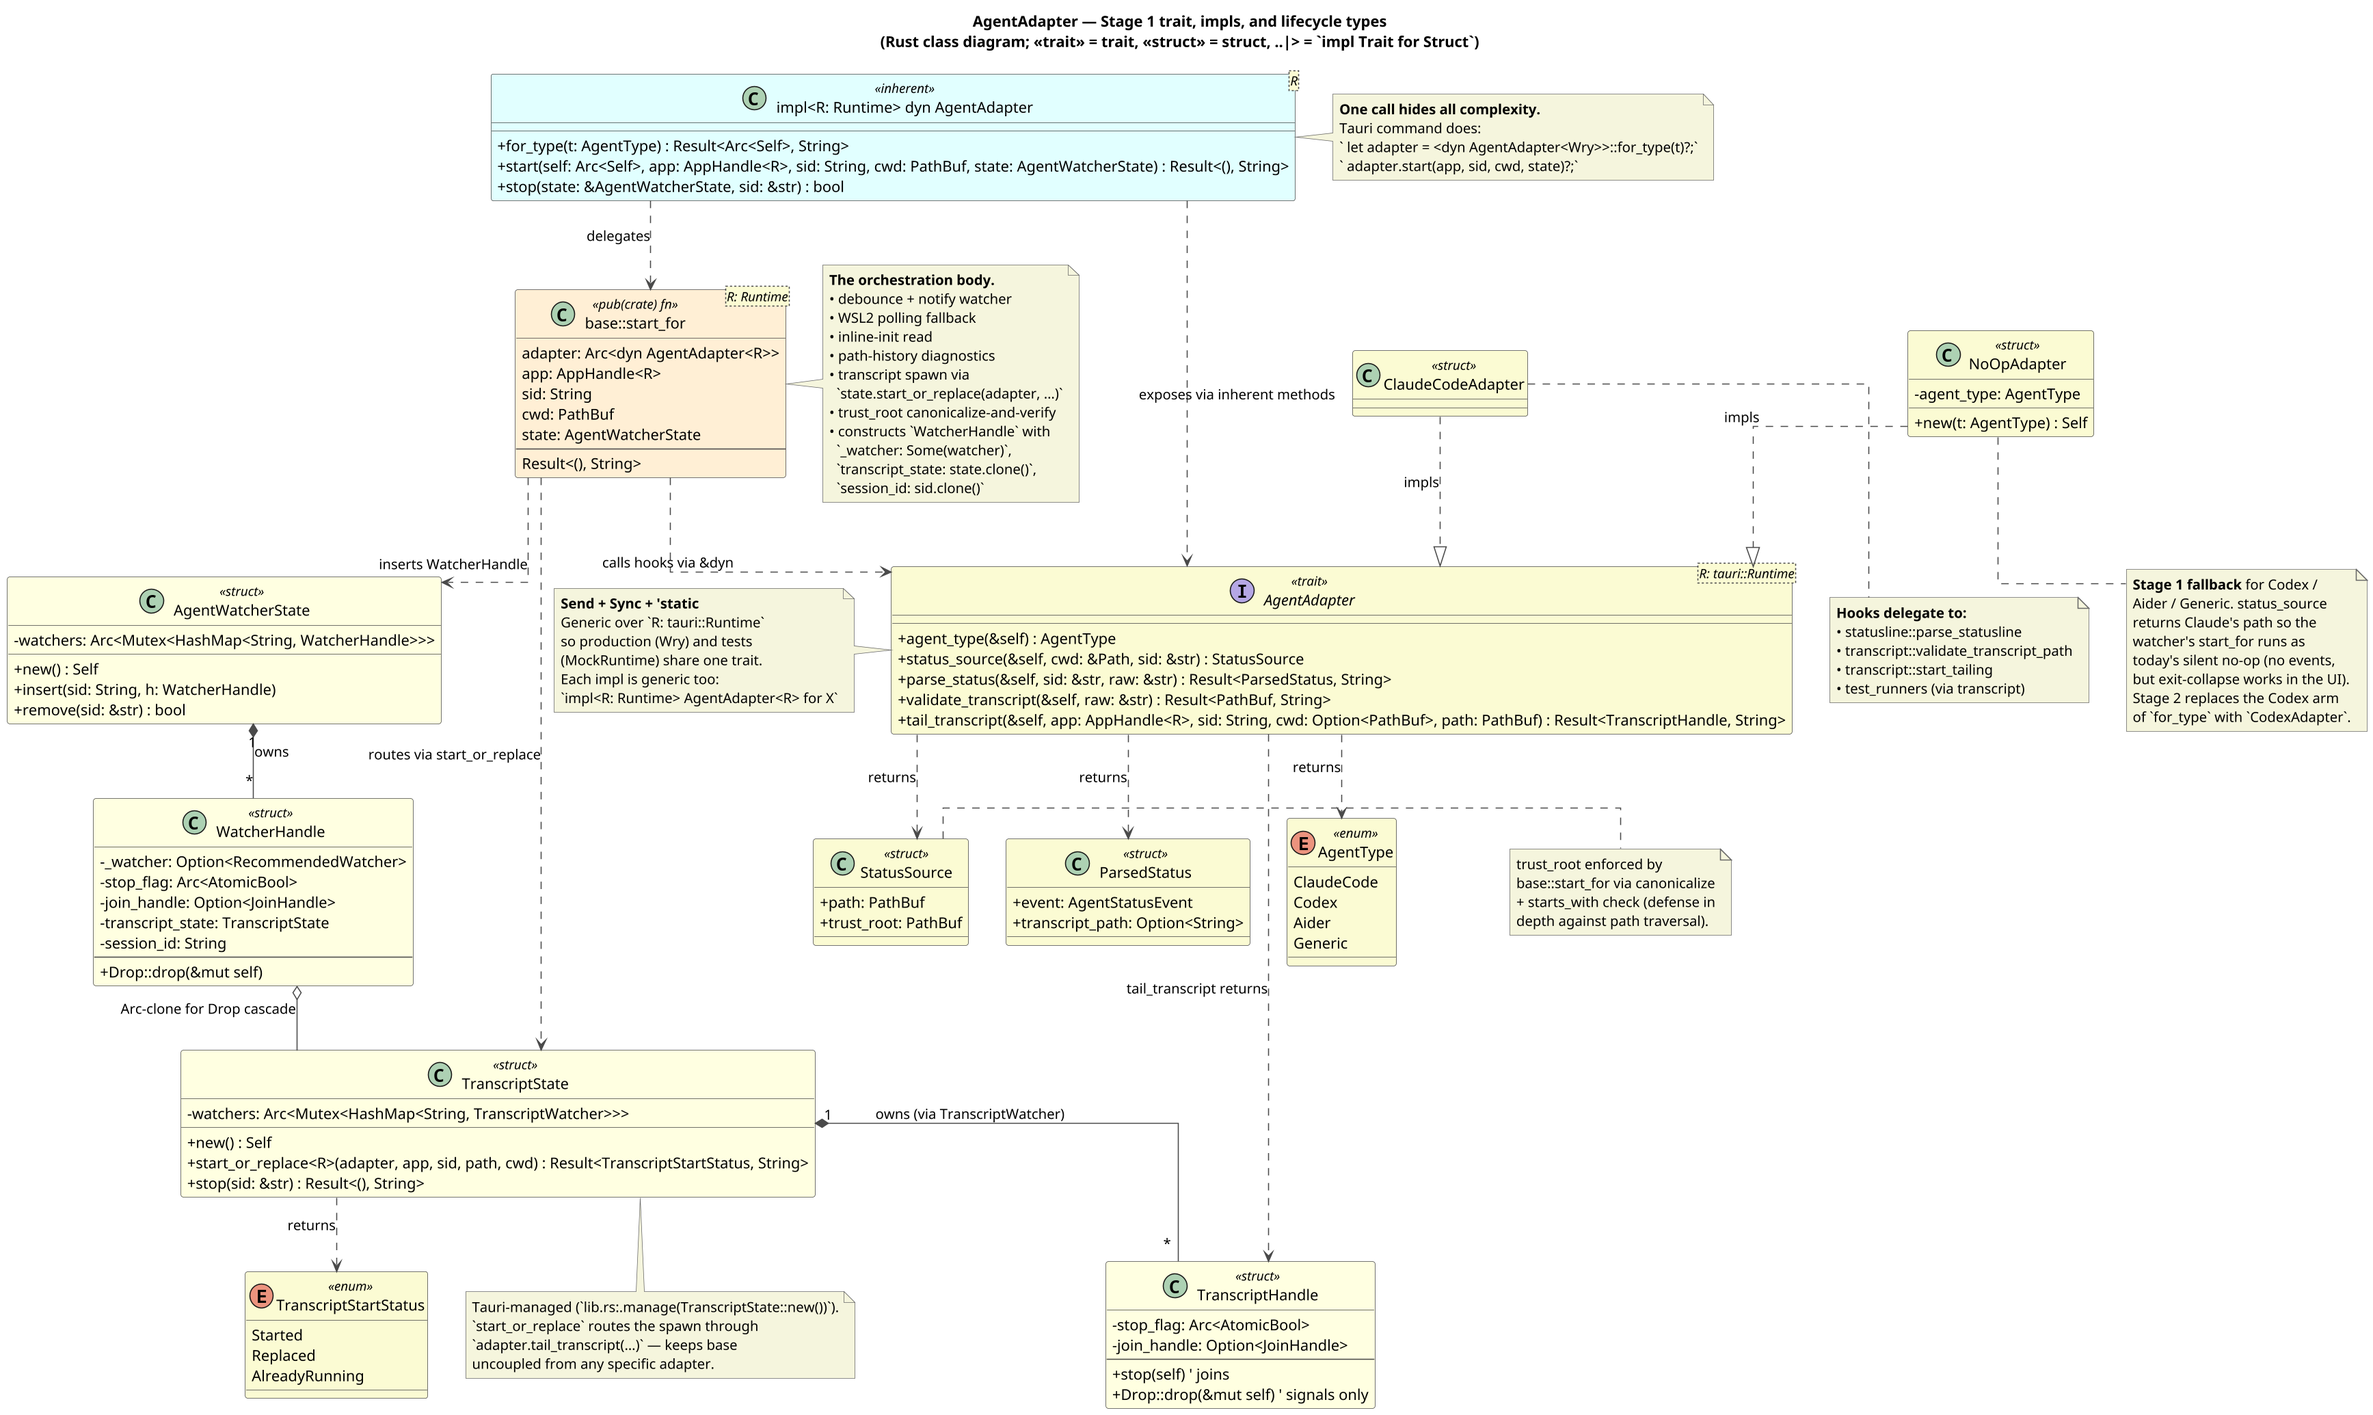
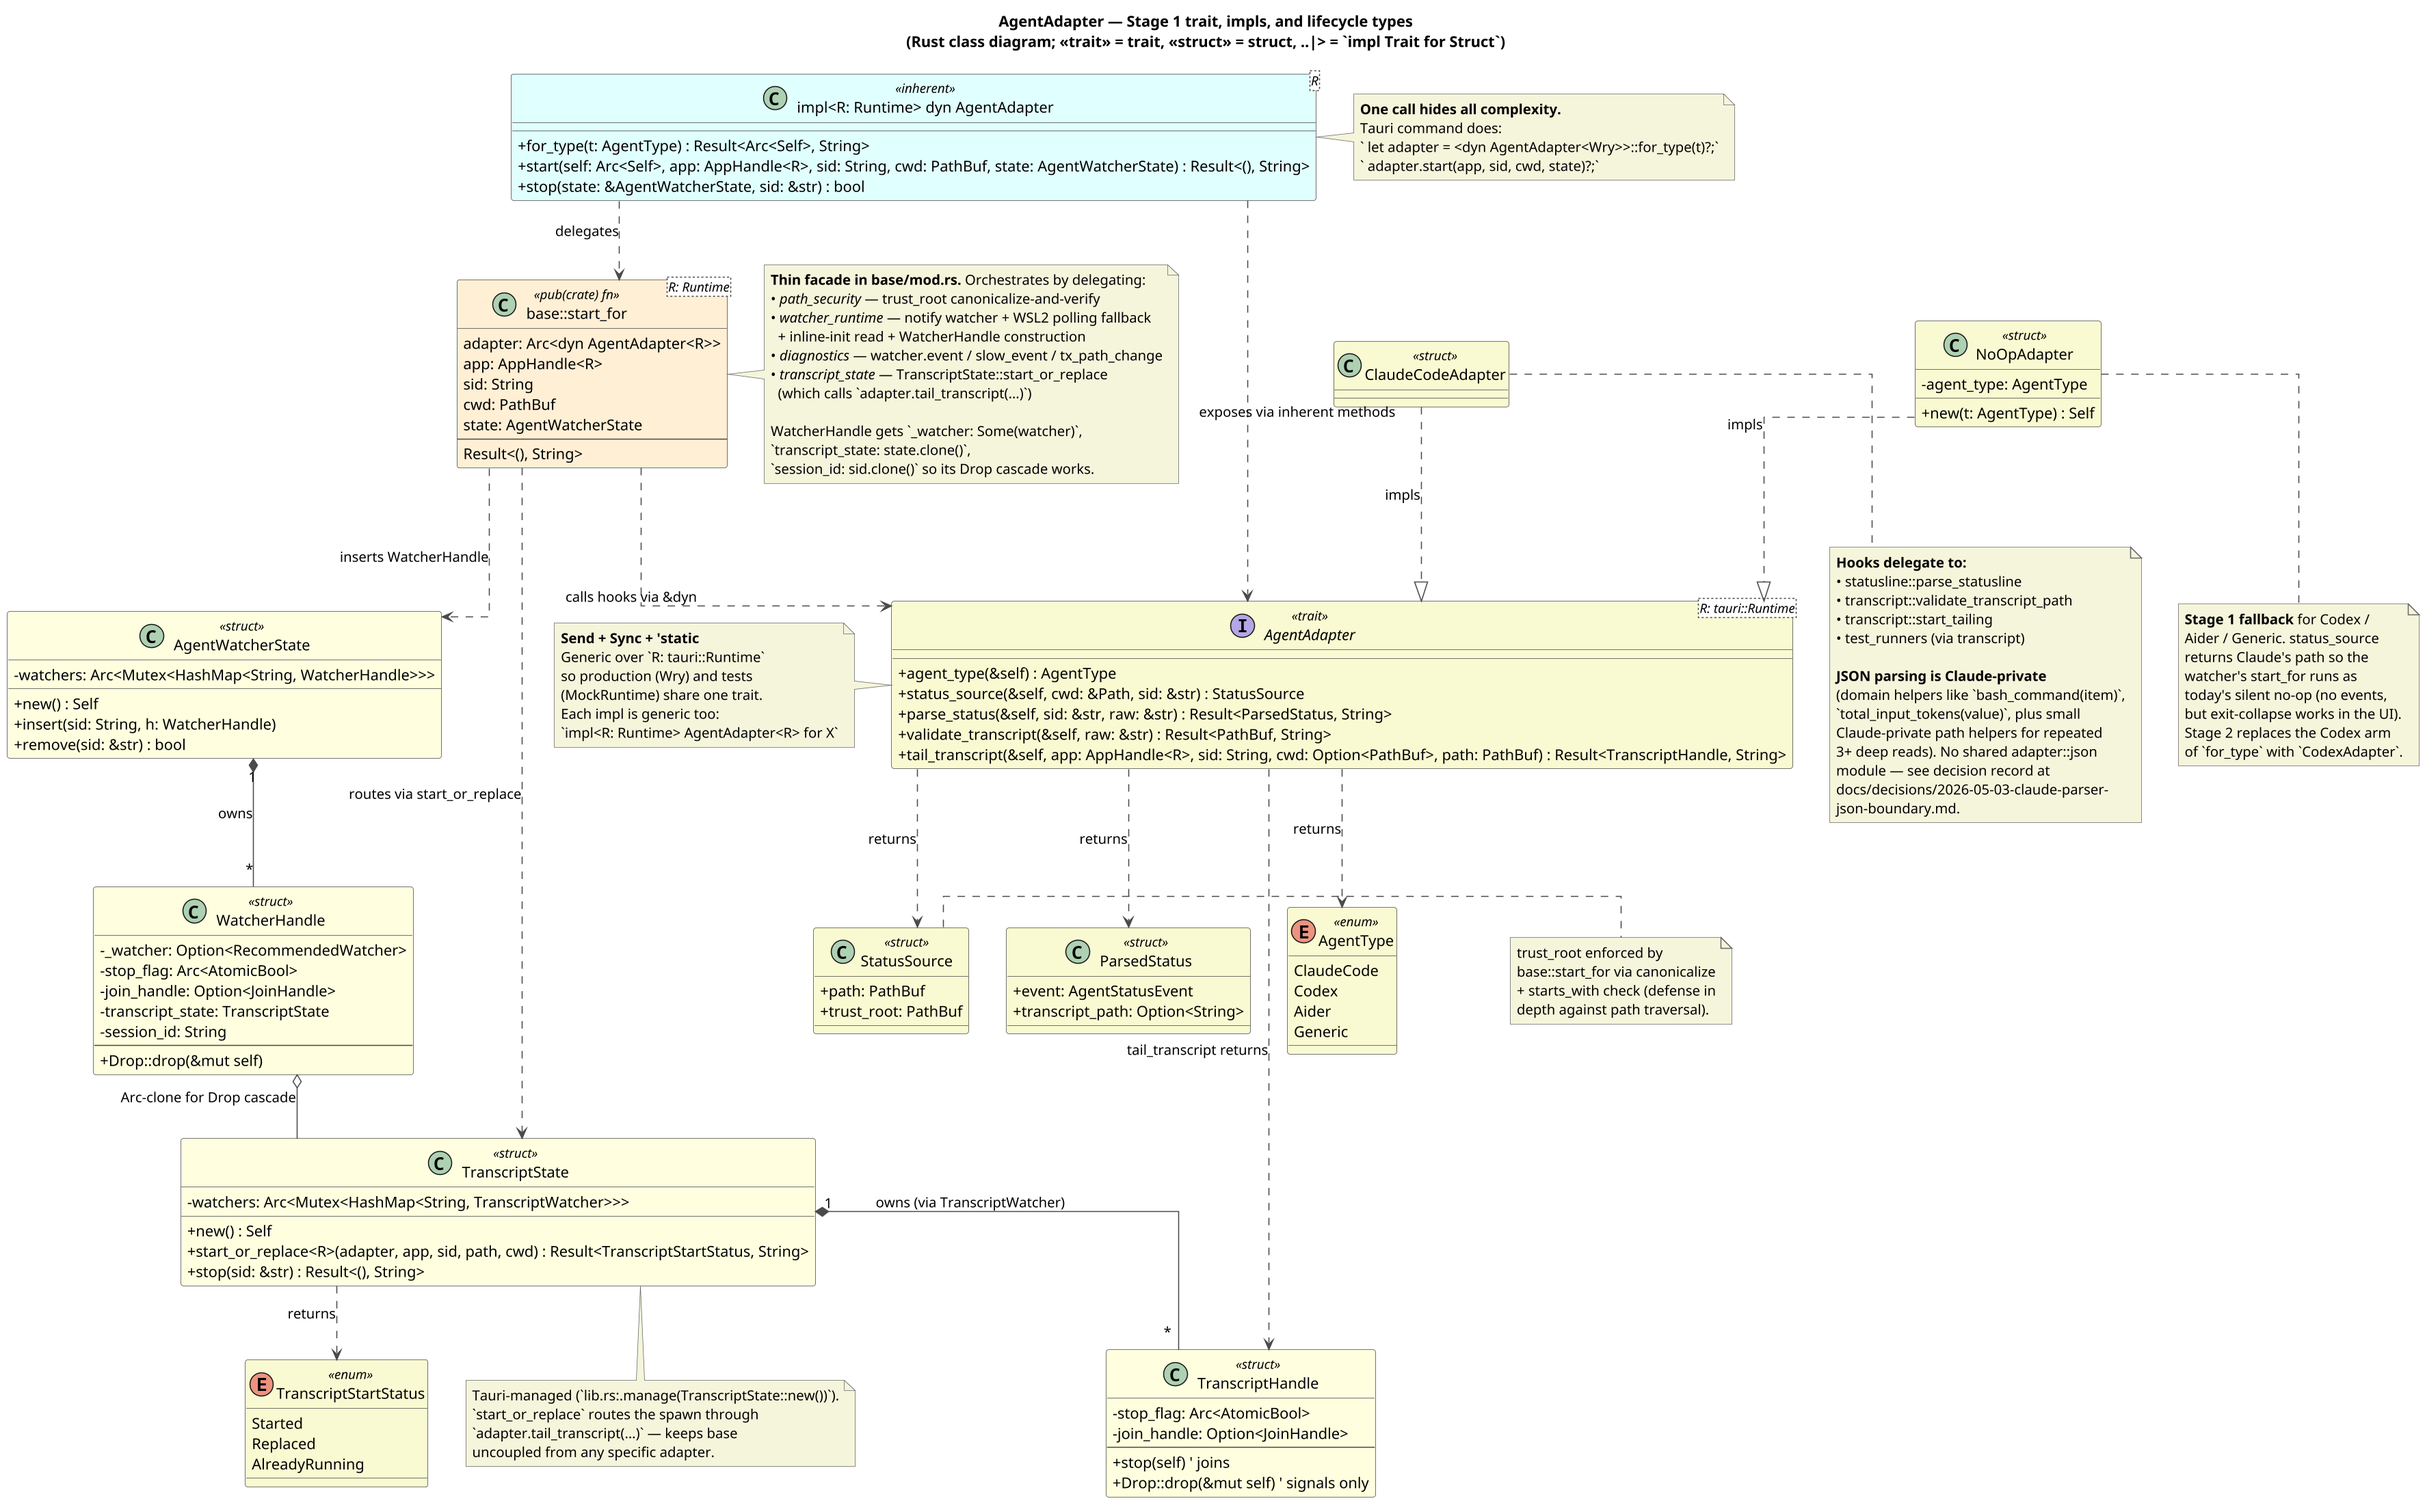
docs(agent): refresh README + UML for base/ split and JSON boundary
Two structural changes landed after the Stage 1 commit but were
only partially reflected in the agent module's local docs:

1. Commit 5ae842e split adapter/base.rs into base/ submodules
   (mod, diagnostics, path_security, transcript_state,
   watcher_runtime). Codex updated the README's module tree and
   orchestrator section; this commit updates the UML to match
   (orchestration note now describes the facade-and-delegate
   shape, lifecycle-types section header points at base/ rather
   than base.rs).

2. Commit 6f1074b removed adapter::json after the parser-JSON-
   boundary decision (docs/decisions/2026-05-03-claude-parser-
   json-boundary.md). Codex dropped the json module from the
   spec/plan; this commit:
   - Adds a JSON-boundary note to the ClaudeCodeAdapter class
     in the UML, pointing at the decision record.
   - Grounds the README's "Claude parser JSON boundary" section
     with concrete helper signatures (bash_command,
     total_input_tokens, current_usage) and a pointer to the
     Claude-private path helpers in statusline.rs:368-378.
   - Adds the decision record to the README's See-also list.

PNG and SVG re-rendered from the updated PlantUML source.

diff --git a/src-tauri/src/agent/README.md b/src-tauri/src/agent/README.md
@@ -341,20 +341,34 @@ Tauri-managed via `lib.rs`'s `.manage(TranscriptState::new())`. **Visibility:** 
 
 ## Claude parser JSON boundary
 
-There is intentionally no shared `agent::adapter::json` module. Only Claude uses JSON parser helpers today, so shared adapter-level helpers would be premature until Codex/Aider prove the same abstraction is useful.
+There is intentionally **no** shared `agent::adapter::json` module. Only Claude uses JSON parser helpers today, so shared adapter-level helpers would be premature until Codex / Aider prove the same abstraction is useful.
 
-Claude parser flow should call domain functions first:
+Parser flow calls **domain functions** first — the call site reads as Claude concepts, not JSON paths:
 
 ```rust
+// transcript.rs — extract a Bash tool_use's command field
+fn bash_command(item: &Value) -> Option<&str> { … }
+
 let test_match = bash_command(item).and_then(|cmd| match_command(cmd, cwd));
+
+// statusline.rs — domain accessors over the context_window subtree
+fn total_input_tokens(value: &Value) -> u64 { … }
+fn current_usage(value: &Value) -> Option<CurrentUsage> { … }
+
 let context_window = ContextWindowStatus {
     total_input_tokens: total_input_tokens(value),
     current_usage: current_usage(value),
-    // ...
+    // …
 };
 ```
 
-Inside those helpers, 1-2 level reads use explicit `.get().and_then(...)` because they show the JSON shape directly. Repeated 3+ level reads may use small Claude-private helpers. The decision is recorded in `docs/decisions/2026-05-03-claude-parser-json-boundary.md`.
+Inside those domain helpers:
+
+- **1-2 level reads** use explicit `.get().and_then(...)` because the JSON shape is right there in the code.
+- **3+ deep, repeated** reads use small **Claude-private** path helpers (`f64_at`, `u64_or`, `f64_or` in `claude_code/statusline.rs:368-378`). They're free fns inside `claude_code/statusline.rs` — not exported, not promoted to `adapter::json`, not visible to other adapters.
+- Generic `at` / `_or` helpers stay implementation details of the Claude parser. Promote them to `adapter::json` (or whatever) only after Codex's parser actually demonstrates the same shape is useful.
+
+Full rationale and rejected alternatives in [`docs/decisions/2026-05-03-claude-parser-json-boundary.md`](../../../docs/decisions/2026-05-03-claude-parser-json-boundary.md).
 
 ---
 
@@ -370,5 +384,6 @@ Inside those helpers, 1-2 level reads use explicit `.get().and_then(...)` becaus
 
 - **`docs/superpowers/specs/2026-05-02-claude-adapter-refactor-design.md`** — the design spec (architectural decisions, rationale, IDEA blocks).
 - **`docs/superpowers/plans/2026-05-03-claude-adapter-refactor-stage-1.md`** — the implementation plan (14 tasks, 91 bite-sized steps, exact code).
+- **`docs/decisions/2026-05-03-claude-parser-json-boundary.md`** — why parser helpers stay Claude-private until a second adapter exists.
 - **`rules/common/design-philosophy.md`** — the deep-module / interface-discipline principles this design is grounded in.
 - **`rules/rust/patterns.md`** — Tauri command shape, managed state, event system.
